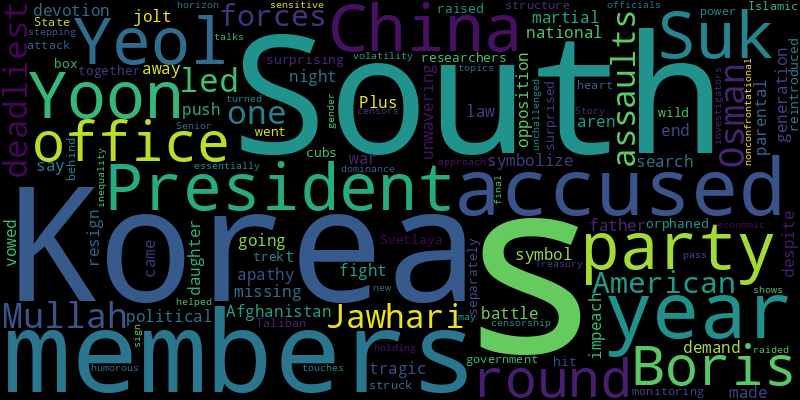
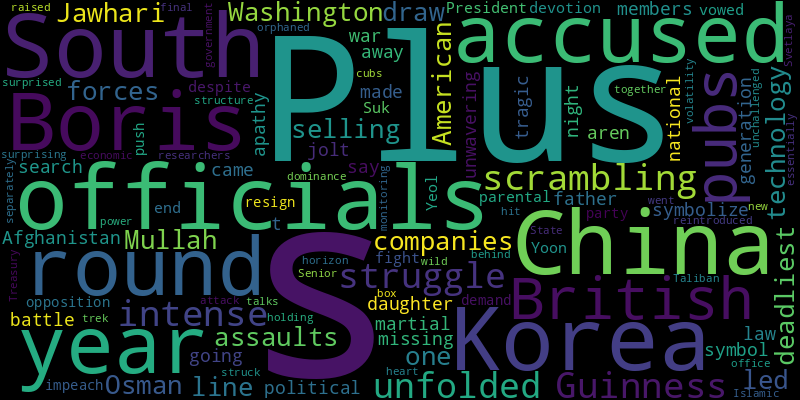
chore(bot): 💩 auto commit

diff --git a/README.md b/README.md
@@ -2,32 +2,34 @@
 Auto RSS New York Times and Generate Word Cloud
 
 ## New York Times Global News
-* The rebel leader who helped oust the Assad regime called on countries to hand over “criminals” who fled Syria. A top Kurdish commander criticized the United States, saying it was risking an ISIS resurgence.
-* Famine and ethnic cleansing stalk Sudan. Yet the gold trade is booming, enriching generals and propelling the fight.
-* Syrians raced to newly emptied prisons to reunite with loved ones snatched away by the brutal regime of Bashar al-Assad, but their quest sometimes took them to the morgue.
-* An ultranationalist politician’s surge shows how many people would rather forget the country’s fascist past, experts say.
-* President Yoon Suk Yeol shows no sign of stepping down, as investigators raided his office and more members of his own party turned against him.
-* Rebels are asserting control in Damascus as Israel and other countries carry out military operations.
-* A meeting between President-elect Donald J. Trump and Prince William showed Britain’s hope that the Windsors could help safeguard relations with Washington.
-* A freeze placed this year on their use to treat gender dysphoria will remain in place for young people under 18, except in clinical trials, Britain’s government said.
-* Chancellor Olaf Scholz, who had few alternatives after his three-party coalition broke up, is widely expected to lose when Parliament takes up the measure on Monday.
-* “Her Story” touches on sensitive topics in China, like censorship and gender inequality. But its humorous, nonconfrontational approach may have helped it pass censors.
+* Israel said its forces would remain in Syrian territory until “a new force” filled the vacuum. Secretary of State Antony J. Blinken was in Jordan and Turkey for talks, and a top Turkish official appeared in Damascus.
+* The United States killed its own allies, sabotaging itself in a part of Afghanistan where it never needed to be.
+* An ally’s downfall has prompted calls in Russia for a definitive victory closer to home.
+* The lore around Massad Boulos, Tiffany Trump’s father-in-law, is that he is a billionaire dealmaker. Records show otherwise.
+* South Korea’s night of martial law was a jolt for some members of a generation accused of political apathy. They say they aren’t going away.
+* A year after becoming president, Javier Milei has been praised inside and outside Argentina for reining in galloping inflation. But his economic policies have inflicted widespread hardship.
+* The man told reporters that his name was Travis Timmerman and that he had entered Syria on a religious pilgrimage. He said he had been detained for months.
+* Guinness’s parent company has limited the amount of the beer that U.K. wholesalers and distributors can buy each week, after surging demand led to fears of shortages.
+* After fiber-optic cables under the Baltic Sea were cut last month, European officials hurried to stop the Yi Peng 3. It’s still at anchor there, with no update on three nations’ investigation.
+* Russia is pushing toward Pokrovsk, a strategic city for Ukraine’s army with important rail and road connections, in a rapid capturing of ground in the Donetsk region.
 
 ![Global](./global.png)
 ## New York Times United States News
-* Harvard, Penn and U.S.C. were among the universities and colleges that issued advisories in anticipation of possible travel bans.
-* Employees at UnitedHealthcare and other companies described being anxious after an outpouring of online vitriol.
-* Flames threatened residential areas and forced thousands to flee, as firefighters fought to contain the Franklin fire.
-* Federal prosecutors said Lavante Wiggins of Pittsfield High School and another man had conspired to traffic “large quantities” of the drug in western Massachusetts.
-* It is unclear whether the rule, which could help save Americans billions in fees each year, will remain in place after President-elect Donald J. Trump returns to office.
-* Linda Qiu, a New York Times reporter, fact-checks some claims by three of President-elect Donald Trump’s cabinet picks: Pete Hegseth, Tulsi Gabbard and Robert F. Kennedy Jr.
+* Part of the gun that the police believe was used to kill the C.E.O. of UnitedHealthcare was made by a 3D printer using a popular design found online.
+* New details are emerging about Luigi Mangione’s growing impatience with “a capitalist society” and his search for refuge in the mountains of Japan.
+* The lawsuit was the latest in a series by a prominent anti-affirmative action group that is seeking to overturn the use of racial preferences in the nation’s military academies.
+* The official, an administrator of multicultural programs, was accused of making antisemitic remarks in a conversation. Her lawyer said that the school fired her this week, and vowed to sue.
 * The president-elect became convinced that letting Pete Hegseth fail would set off a feeding frenzy among senators. What followed was a MAGA swarm that helped salvage his bid, at least for now.
-* Ms. Lake, a former TV news anchor turned right-wing firebrand who has called journalists “monsters,” would be in charge of a federally funded news outlet with a huge global audience.
-* The rapper, whose real name is Kentrell Gaulden, admitted to possessing guns as a felon in Louisiana. He faced a maximum sentence of 25 years.
-* Amaryllis Fox Kennedy, a former C.I.A. officer who is married to the son of Robert F. Kennedy Jr., raised alarms for publishing a book about her work at the agency without going through a review process.
+* Residents voted to rein in a mayor who they say has a penchant for secrecy and is overly deferential to developers.
+* The indictment was the second time in a week that the Justice Department announced that it had charged top Syrian officials with human rights abuses.
+* The adult male swam more than 8,000 miles from South America to Africa, most likely in search of a mate, researchers said.
+* Among those whose sentences were commuted was Rebecca Parrett, an Arizona woman who now hopes to travel to meet her great-grandchildren for the first time.
+* Mr. Wray’s voluntary departure could usher in a new era at the nation’s premier law enforcement agency, one in which the job of director changes with the administration.
 
 ![US](./usnews.png)
 ## New York Times Asia News
+* Plus, British pubs are scrambling for Guinness.
+* An intense struggle has unfolded in Washington between companies and officials over where to draw the line on selling technology to China.
 * Mullah Osman Jawhari led one of the deadliest assaults on American forces in Afghanistan, a battle that came to symbolize the war itself.
 * South Korea’s night of martial law was a jolt for some members of a generation accused of political apathy. They say they aren’t going away.
 * A father’s 25-year search for his missing daughter in South Korea made him a tragic national symbol of unwavering parental devotion.
@@ -36,7 +38,5 @@ Auto RSS New York Times and Generate Word Cloud
 * Boris and Svetlaya were raised together as orphaned cubs, and then reintroduced to the wild separately. But Boris went on a trek that surprised the researchers who were monitoring him.
 * The government accused the Islamic State of being behind the attack, which struck at the heart of the Taliban’s power structure after years of essentially unchallenged dominance.
 * Senior Treasury officials are holding a final round of talks with a new round of economic volatility on the horizon.
-* “Her Story” touches on sensitive topics in China, like censorship and gender inequality. But its humorous, nonconfrontational approach may have helped it pass censors.
-* President Yoon Suk Yeol shows no sign of stepping down, as investigators raided his office and more members of his own party turned against him.
 
 ![Asian](./asian.png)

diff --git a/archive/2024-12-12.md b/archive/2024-12-12.md
@@ -1,0 +1,42 @@
+# NewsArchive
+Auto RSS New York Times and Generate Word Cloud
+
+## New York Times Global News
+* The rebel leader who helped oust the Assad regime called on countries to hand over “criminals” who fled Syria. A top Kurdish commander criticized the United States, saying it was risking an ISIS resurgence.
+* Famine and ethnic cleansing stalk Sudan. Yet the gold trade is booming, enriching generals and propelling the fight.
+* Syrians raced to newly emptied prisons to reunite with loved ones snatched away by the brutal regime of Bashar al-Assad, but their quest sometimes took them to the morgue.
+* An ultranationalist politician’s surge shows how many people would rather forget the country’s fascist past, experts say.
+* President Yoon Suk Yeol shows no sign of stepping down, as investigators raided his office and more members of his own party turned against him.
+* Rebels are asserting control in Damascus as Israel and other countries carry out military operations.
+* A meeting between President-elect Donald J. Trump and Prince William showed Britain’s hope that the Windsors could help safeguard relations with Washington.
+* A freeze placed this year on their use to treat gender dysphoria will remain in place for young people under 18, except in clinical trials, Britain’s government said.
+* Chancellor Olaf Scholz, who had few alternatives after his three-party coalition broke up, is widely expected to lose when Parliament takes up the measure on Monday.
+* “Her Story” touches on sensitive topics in China, like censorship and gender inequality. But its humorous, nonconfrontational approach may have helped it pass censors.
+
+![Global](./global.png)
+## New York Times United States News
+* Harvard, Penn and U.S.C. were among the universities and colleges that issued advisories in anticipation of possible travel bans.
+* Employees at UnitedHealthcare and other companies described being anxious after an outpouring of online vitriol.
+* Flames threatened residential areas and forced thousands to flee, as firefighters fought to contain the Franklin fire.
+* Federal prosecutors said Lavante Wiggins of Pittsfield High School and another man had conspired to traffic “large quantities” of the drug in western Massachusetts.
+* It is unclear whether the rule, which could help save Americans billions in fees each year, will remain in place after President-elect Donald J. Trump returns to office.
+* Linda Qiu, a New York Times reporter, fact-checks some claims by three of President-elect Donald Trump’s cabinet picks: Pete Hegseth, Tulsi Gabbard and Robert F. Kennedy Jr.
+* The president-elect became convinced that letting Pete Hegseth fail would set off a feeding frenzy among senators. What followed was a MAGA swarm that helped salvage his bid, at least for now.
+* Ms. Lake, a former TV news anchor turned right-wing firebrand who has called journalists “monsters,” would be in charge of a federally funded news outlet with a huge global audience.
+* The rapper, whose real name is Kentrell Gaulden, admitted to possessing guns as a felon in Louisiana. He faced a maximum sentence of 25 years.
+* Amaryllis Fox Kennedy, a former C.I.A. officer who is married to the son of Robert F. Kennedy Jr., raised alarms for publishing a book about her work at the agency without going through a review process.
+
+![US](./usnews.png)
+## New York Times Asia News
+* Mullah Osman Jawhari led one of the deadliest assaults on American forces in Afghanistan, a battle that came to symbolize the war itself.
+* South Korea’s night of martial law was a jolt for some members of a generation accused of political apathy. They say they aren’t going away.
+* A father’s 25-year search for his missing daughter in South Korea made him a tragic national symbol of unwavering parental devotion.
+* President Yoon Suk Yeol vowed to “fight to the end,” despite the opposition’s push to impeach him and his own party’s demand that he resign.
+* Plus, China’s surprising box office hit.
+* Boris and Svetlaya were raised together as orphaned cubs, and then reintroduced to the wild separately. But Boris went on a trek that surprised the researchers who were monitoring him.
+* The government accused the Islamic State of being behind the attack, which struck at the heart of the Taliban’s power structure after years of essentially unchallenged dominance.
+* Senior Treasury officials are holding a final round of talks with a new round of economic volatility on the horizon.
+* “Her Story” touches on sensitive topics in China, like censorship and gender inequality. But its humorous, nonconfrontational approach may have helped it pass censors.
+* President Yoon Suk Yeol shows no sign of stepping down, as investigators raided his office and more members of his own party turned against him.
+
+![Asian](./asian.png)
